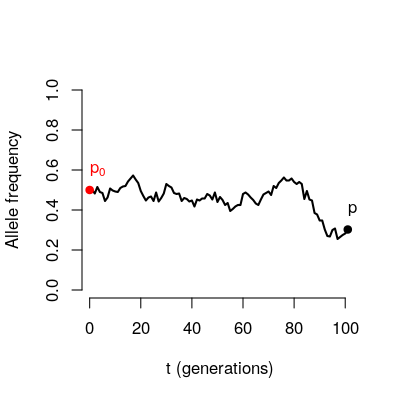
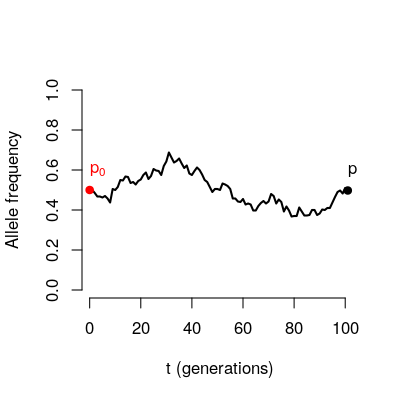
Principle up to FLK test

Changed region(s): [[0.24, 0.36, 0.9, 0.57], [0.81, 0.57, 0.9, 0.6], [0.87, 0.51, 0.9, 0.54]]

diff --git a/hapflk.html b/hapflk.html
@@ -31,19 +31,139 @@
 <section id="sec-title-slide"><h1 class="title">hapFLK: a gentle introduction</h1><h2 class="author">Bertrand Servin</h2><h2 class="email"><a href="mailto:bertrand.servin@inra.fr">bertrand.servin@inra.fr</a></h2><h2 class="date">SSMPG Sept. 11-15 2017, Aussois, France</h2>
 </section>
 
-
 <section>
-<section id="slide-org5718ab6">
-<h2 id="org5718ab6">Principle of the (hap)FLK tests</h2>
+<section id="slide-org9061b14">
+<h2 id="org9061b14">Principle of the (hap)FLK tests</h2>
+<ul>
+<li>FLK and hapFLK are tests aimed at detecting selection based on
+population differentiation</li>
+<li>The principle is:
+<ol>
+<li><b>Model  differences in allele frequencies</b> betwen a
+group of populations evolving under drift.</li>
+<li>At a given locus: <b>Are observed differences with this model ?</b> = test for seleciton at this locus.</li>
+
+</ol></li>
+
+</ul>
+
+</section>
+<section id="slide-orge25d8eb">
+<h3 id="orge25d8eb">Neutral model in a single population</h3>
 <p>
-This is the principle section
+Consider the trajectory of an allele through time in a population of
+finite size 
+</p>
+
+<div class="figure">
+<p><img src="practical/hapflk/ptraj.png" alt="ptraj.png" />
+</p>
+</div>
+
+</section>
+<section >
+
+<p>
+If we were to look at many loci starting from the same initial
+frequency \(p_0\). 
+</p>
+<div class="column" style="float:left; width: 40%">
+
+<div class="figure">
+<p><img src="practical/hapflk/ptrajmulti.png" alt="ptrajmulti.png" />
+</p>
+</div>
+</div>
+
+<div class="column" style="float:right; width: 60%">
+
+<p>
+\[E(p) = p_0\]
+</p>
+
+<p>
+The variance of the final frequencies depends on:
+</p>
+<ul>
+<li>The number of generations (t)</li>
+<li>The population size (N)</li>
+<li>The initial allele frequency (\(p_0\))</li>
+
+</ul>
+
+<p>
+\[Var(p) \approx \frac{t}{2N} p_0(1-p_0)\]
+</p>
+</div>
+
+</section>
+<section id="slide-org2aa746d">
+<h3 id="org2aa746d">Neutral model in multiple populations</h3>
+<div class="column" style="float:right; width: 60%">
+<p>
+If we had a set of loci with identical \(p_0\):
+</p>
+<ul>
+<li>we could estimate \(F \approx \frac{t}{2N}\) and</li>
+<li>characterize the distribution of allele frequencies under Neutral
+evolution.</li>
+
+</ul>
+
+
+<p>
+<b>Considering the same locus in a set of populations achieves this.</b>
+</p>
+
+</div>
+
+<div class="column" style="float:right; width: 40%">
+
+<div class="figure">
+<p><img src="practical/hapflk/startree.png" alt="startree.png" />
+</p>
+</div>
+
+</div>
+
+<p>
+\(F\) characterizes the amount of drift since ancestral split:
+shared across (neutral) loci:  estimated by considering all loci.
 </p>
 
 </section>
+<section id="slide-org7115b10">
+<h4 id="org7115b10">Real life is more complex</h4>
+<ul>
+<li>Populations have different sizes</li>
+<li>Successive splits: some populations share ancestry <b>after</b> the
+ancestral population.</li>
+
+</ul>
+
+<div class="column" style="float:left; width: 50%">
+
+<div class="figure">
+<p><img src="practical/hapflk/tree.png" alt="tree.png" />
+</p>
+</div>
+
+</div>
+
+<div class="column" style="float:right; width: 50%">
+
+<div class="figure">
+<p><img src="practical/hapflk/covptraj.png" alt="covptraj.png" />
+</p>
+</div>
+
+</div>
+
+</section>
 </section>
 <section>
-<section id="slide-org33d3c6c">
-<h2 id="org33d3c6c">Software overview</h2>
+<section id="slide-orgd8c8275">
+<h2 id="orgd8c8275">Software overview</h2>
 <ul>
 <li><code>hapflk</code> is a python program that is meant to be used on the command
 line.</li>
@@ -57,8 +177,8 @@ of an individual</li>
 </section>
 </section>
 <section>
-<section id="slide-org5becee7">
-<h2 id="org5becee7">Practical</h2>
+<section id="slide-orgf63dfa5">
+<h2 id="orgf63dfa5">Practical</h2>
 <p>
 For this practical we will analyse data from
 <a href="http://www.sheephapmap.org/hapmap.php">The SheepHapMap project</a>. First download the data:
@@ -77,8 +197,8 @@ For this practical we will analyse data from
 
 </ul>
 </section>
-<section id="slide-org903b5b6">
-<h3 id="org903b5b6">Estimating population history from SNP data</h3>
+<section id="slide-orgbc0fbb1">
+<h3 id="orgbc0fbb1">Estimating population history from SNP data</h3>
 <p>
 The first task will be aimed at running hapflk in SNP mode, to:
 </p>
@@ -267,8 +387,8 @@ lines(xx,dchisq(xx,df=5),lwd=2,col=2)
 </div>
 </div>
 </section>
-<section id="slide-orgdad47e1">
-<h3 id="orgdad47e1">Running hapFLK on a (bit of) chromosome</h3>
+<section id="slide-org03aa9a1">
+<h3 id="org03aa9a1">Running hapFLK on a (bit of) chromosome</h3>
 <ul>
 <li>hapFLK is a test based on LD patterns.</li>
 <li>LD patterns are relevant within linked markers</li>

diff --git a/mystyle.css b/mystyle.css
@@ -3,6 +3,11 @@
     margin-left: 20px;
 }
 
+.reveal section img {
+        border: 0;
+        box-shadow: none;
+}
+
 div.figure p {
     text-align: center;
 }
